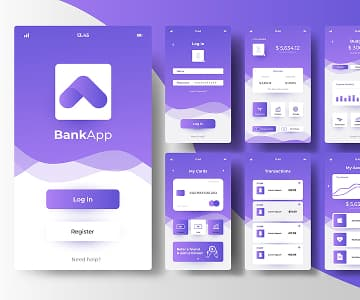
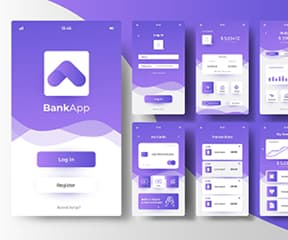
add srcset

diff --git a/index.html b/index.html
@@ -385,6 +385,10 @@
             <li class="portfolio-item">
               <div class="portfolio-extra-top-layer">
                 <img
+                  srcset="
+                    ./images/our-portfolio/bankingapp.jpg    1x,
+                    ./images/our-portfolio/[email redacted] 2x
+                  "
                   src="./images/our-portfolio/bankingapp.jpg"
                   alt="Banking App"
                   width="360"
@@ -405,7 +409,11 @@
             <li class="portfolio-item">
               <div class="portfolio-extra-top-layer">
                 <img
-                  src="./images/our-portfolio/cashless.jpg"
+                  srcset="
+                    ./images/our-portfolio/cashlesspayment.jpg    1x,
+                    ./images/our-portfolio/[email redacted] 2x
+                  "
+                  src="./images/our-portfolio/cashlesspayment.jpg"
                   alt="Cashless Payment"
                   width="360"
                   height="300"
@@ -426,7 +434,11 @@
             <li class="portfolio-item">
               <div class="portfolio-extra-top-layer">
                 <img
-                  src="./images/our-portfolio/meditation.jpg"
+                  srcset="
+                    ./images/our-portfolio/meditationapp.jpg    1x,
+                    ./images/our-portfolio/[email redacted] 2x
+                  "
+                  src="./images/our-portfolio/meditationapp.jpg"
                   alt="Meditation App"
                   width="360"
                   height="300"
@@ -446,7 +458,11 @@
             <li class="portfolio-item">
               <div class="portfolio-extra-top-layer">
                 <img
-                  src="./images/our-portfolio/taxi.jpg"
+                  srcset="
+                    ./images/our-portfolio/taxeservice.jpg    1x,
+                    ./images/our-portfolio/[email redacted] 2x
+                  "
+                  src="./images/our-portfolio/taxeservice.jpg"
                   alt="Taxi Service"
                   width="360"
                   height="300"
@@ -466,7 +482,11 @@
             <li class="portfolio-item">
               <div class="portfolio-extra-top-layer">
                 <img
-                  src="./images/our-portfolio/screen.jpg"
+                  srcset="
+                    ./images/our-portfolio/screenillustrations.jpg    1x,
+                    ./images/our-portfolio/[email redacted] 2x
+                  "
+                  src="./images/our-portfolio/screenillustrations.jpg"
                   alt="Screen Illustrations"
                   width="360"
                   height="300"
@@ -486,6 +506,10 @@
             <li class="portfolio-item">
               <div class="portfolio-extra-top-layer">
                 <img
+                  srcset="
+                    ./images/our-portfolio/onlinecourses.jpg   1x,
+                    ./images/our-portfolio/[email redacted] 2x
+                  "
                   src="./images/our-portfolio/onlinecourses.jpg"
                   alt="Online Courses"
                   width="360"